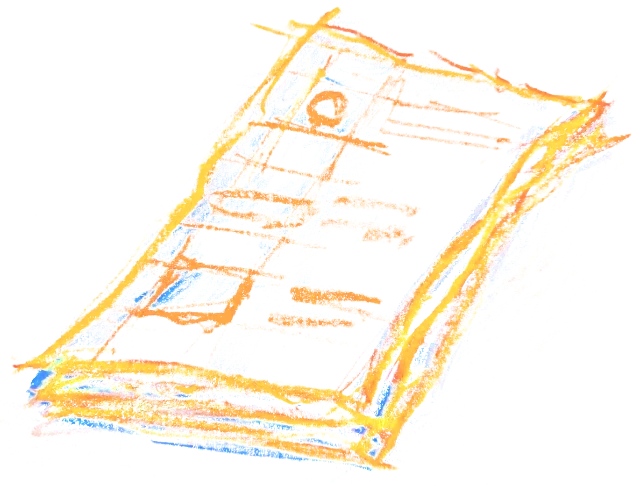
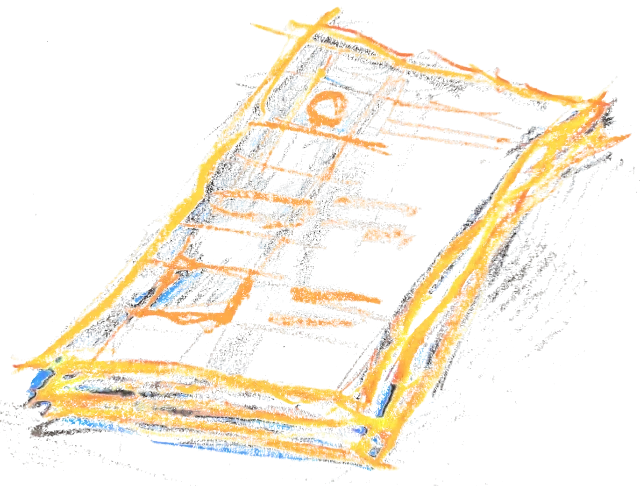
Experiment: the lamp lights the room white - drawings with dark pencil lines (crayon colours kept), dark text and character, transformation lines going dark as it brightens

diff --git a/index.html b/index.html
@@ -745,17 +745,17 @@
     #menu { right: 16px; }
     #logo { left: 16px; }
   }
-  /* EXPERIMENT: the main page stays the intro's dark room (plain black); the line, notes and figure in light crayon */
-  #hero { background: #000; }
-  #hero, #figSvg { --pen: #ece8dc; }
-  #hero .hsolid, #figSvg .hsolid { fill: #000; }
-  #figSvg .hpen, #hero .hpen { stroke: #ece8dc; }
-  #heroLine .hword { fill: #ece8dc; }
+  /* EXPERIMENT: the lamp lights the room white; the line, notes and figure in dark crayon */
+  #hero { background: #fff; }
+  #hero, #figSvg { --pen: #1c1a17; }
+  #hero .hsolid, #figSvg .hsolid { fill: #fff; }
+  #figSvg .hpen, #hero .hpen { stroke: #1c1a17; }
+  #heroLine .hword { fill: #2b2926; }
   /* the character and the "scroll" bubble: as they were, only in a waxier crayon (same lines, same size, same colours) */
   #scene #figure .ln, #scene #leg0, #scene #leg1, #scene #arm { filter: url(#crayonFig); }
   #figSvg #hfLeg0, #figSvg #hfLeg1, #figSvg #hfBody, #figSvg #hfArm { filter: url(#crayonFig); }   /* (the character as it was, thin, drawn by hand in crayon) */
   #figSvg #hfBubblePath, #figSvg #heroScroll { filter: url(#crayon); }
-  @media (min-width: 821px), (min-aspect-ratio: 85/100) { #workPage { --pen: #ece8dc; } #workPage .wpFrame { stroke: #ece8dc; } }
+  @media (min-width: 821px), (min-aspect-ratio: 85/100) { #workPage .wpFrame { stroke: #1c1a17; } }
   html.wk-open #grain { opacity: 0; }   /* (the picture clear: no paper grain over it) */
   #workPage .wpFrame { filter: url(#wpFrameFx); stroke-width: 4.6px; }   /* (the frame hand-drawn in crayon, shimmering) */
   #wpWriting, #wpDots { filter: url(#boilMain); }   /* (the Work page's writing shimmers too) */
@@ -843,7 +843,7 @@
     </g>
 
     <!-- light: the room turns white -->
-    <rect id="whiteout" x="-2000" y="-2000" width="6000" height="6000" fill="#000" opacity="0"></rect>
+    <rect id="whiteout" x="-2000" y="-2000" width="6000" height="6000" fill="#FFFFFF" opacity="0"></rect>
   </svg>
 </section>
 <script>
@@ -2303,7 +2303,7 @@
             const head = th.Ls + (th.Lt - th.Ls) * u, tail = Math.min(head, th.Lb * ease(clamp01(t / (RUN * 0.9))));   // (the tail always leaves the intro drawing completely and arrives at the object)
             const K = 150 * (1 - u * u), seg = slice(th.P, th.L, Math.max(th.Ls, head - K), head);   // (shrinks to nothing as it arrives: nothing left by the objects)   // (a short stroke, from where it leaves the drawing)
             const after = clamp01((t - RUN * 0.9) / 0.12);
-            th.ls.forEach((p, k) => { p.setAttribute('d', seg.length > 1 ? poly(seg, J[k]) : ''); p.style.opacity = 1 - after; });
+            { const w = Math.min(1, Math.max(0, S.white || 0)), c = 'rgb(' + [243, 241, 234].map((v, i) => Math.round(v + ([40, 37, 33][i] - v) * w)).join(',') + ')'; th.ls.forEach((p, k) => { p.setAttribute('d', seg.length > 1 ? poly(seg, J[k]) : ''); p.style.opacity = 1 - after; p.setAttribute('stroke', c); }); }   // (white on the dark, going dark as the room lights up)
             if ((maskNow || tt >= total) && !th.settled) {
               const eV = clamp01(tail / th.Ls), onT = clamp01((head - th.Lb) / (th.Lt - th.Lb)), fV = clamp01((t - RUN * 0.72) / FILL);
               if (th.er && th.er.v !== eV) { th.er.v = eV; { const o = th.er.L * (1 - eV); th.er.p.style.strokeDashoffset = o; if (th.er.core) th.er.core.style.strokeDashoffset = o; } }
